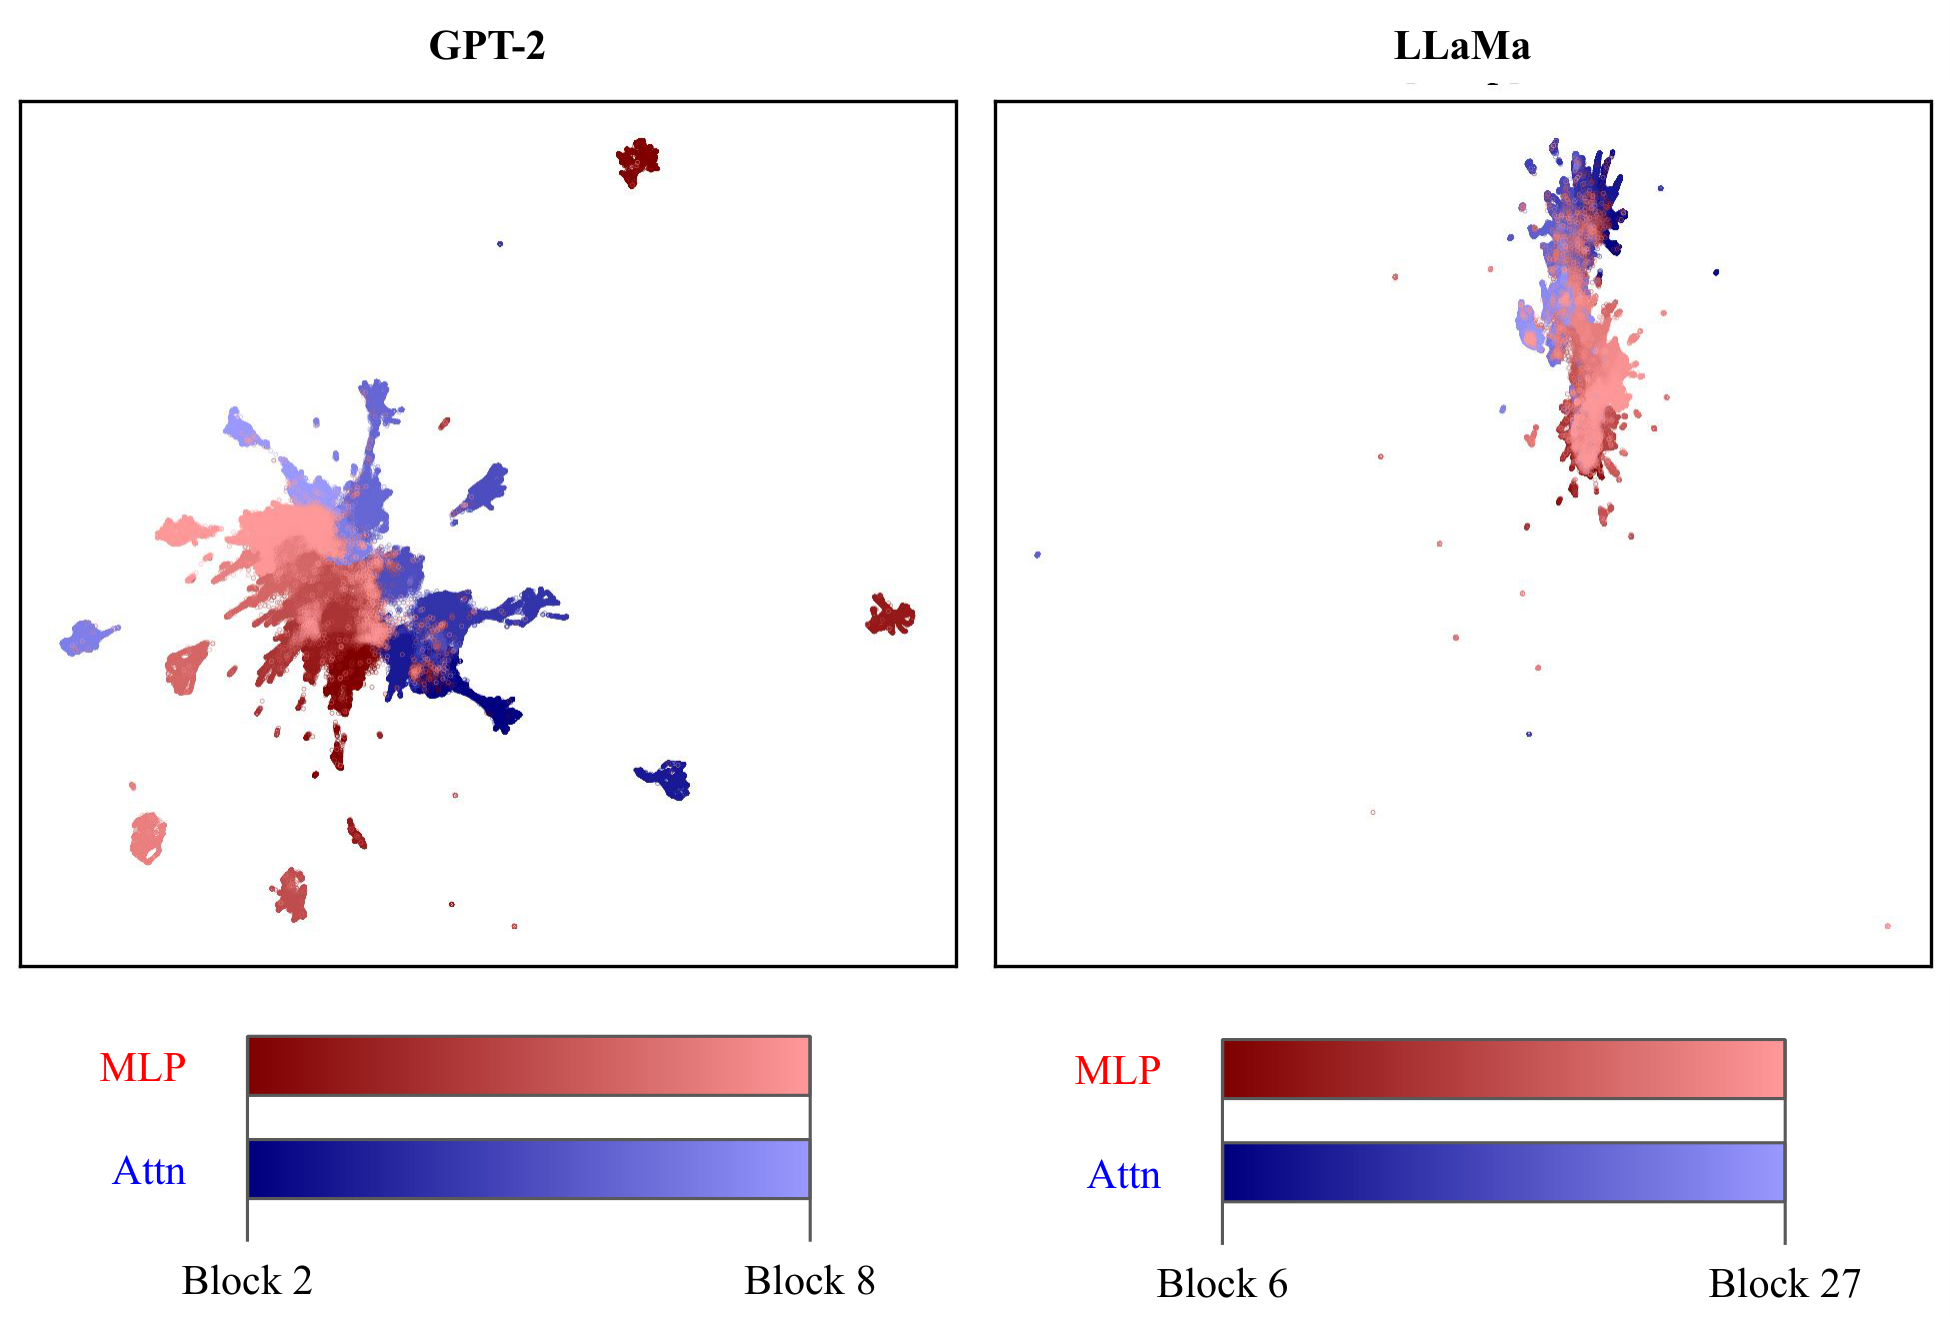
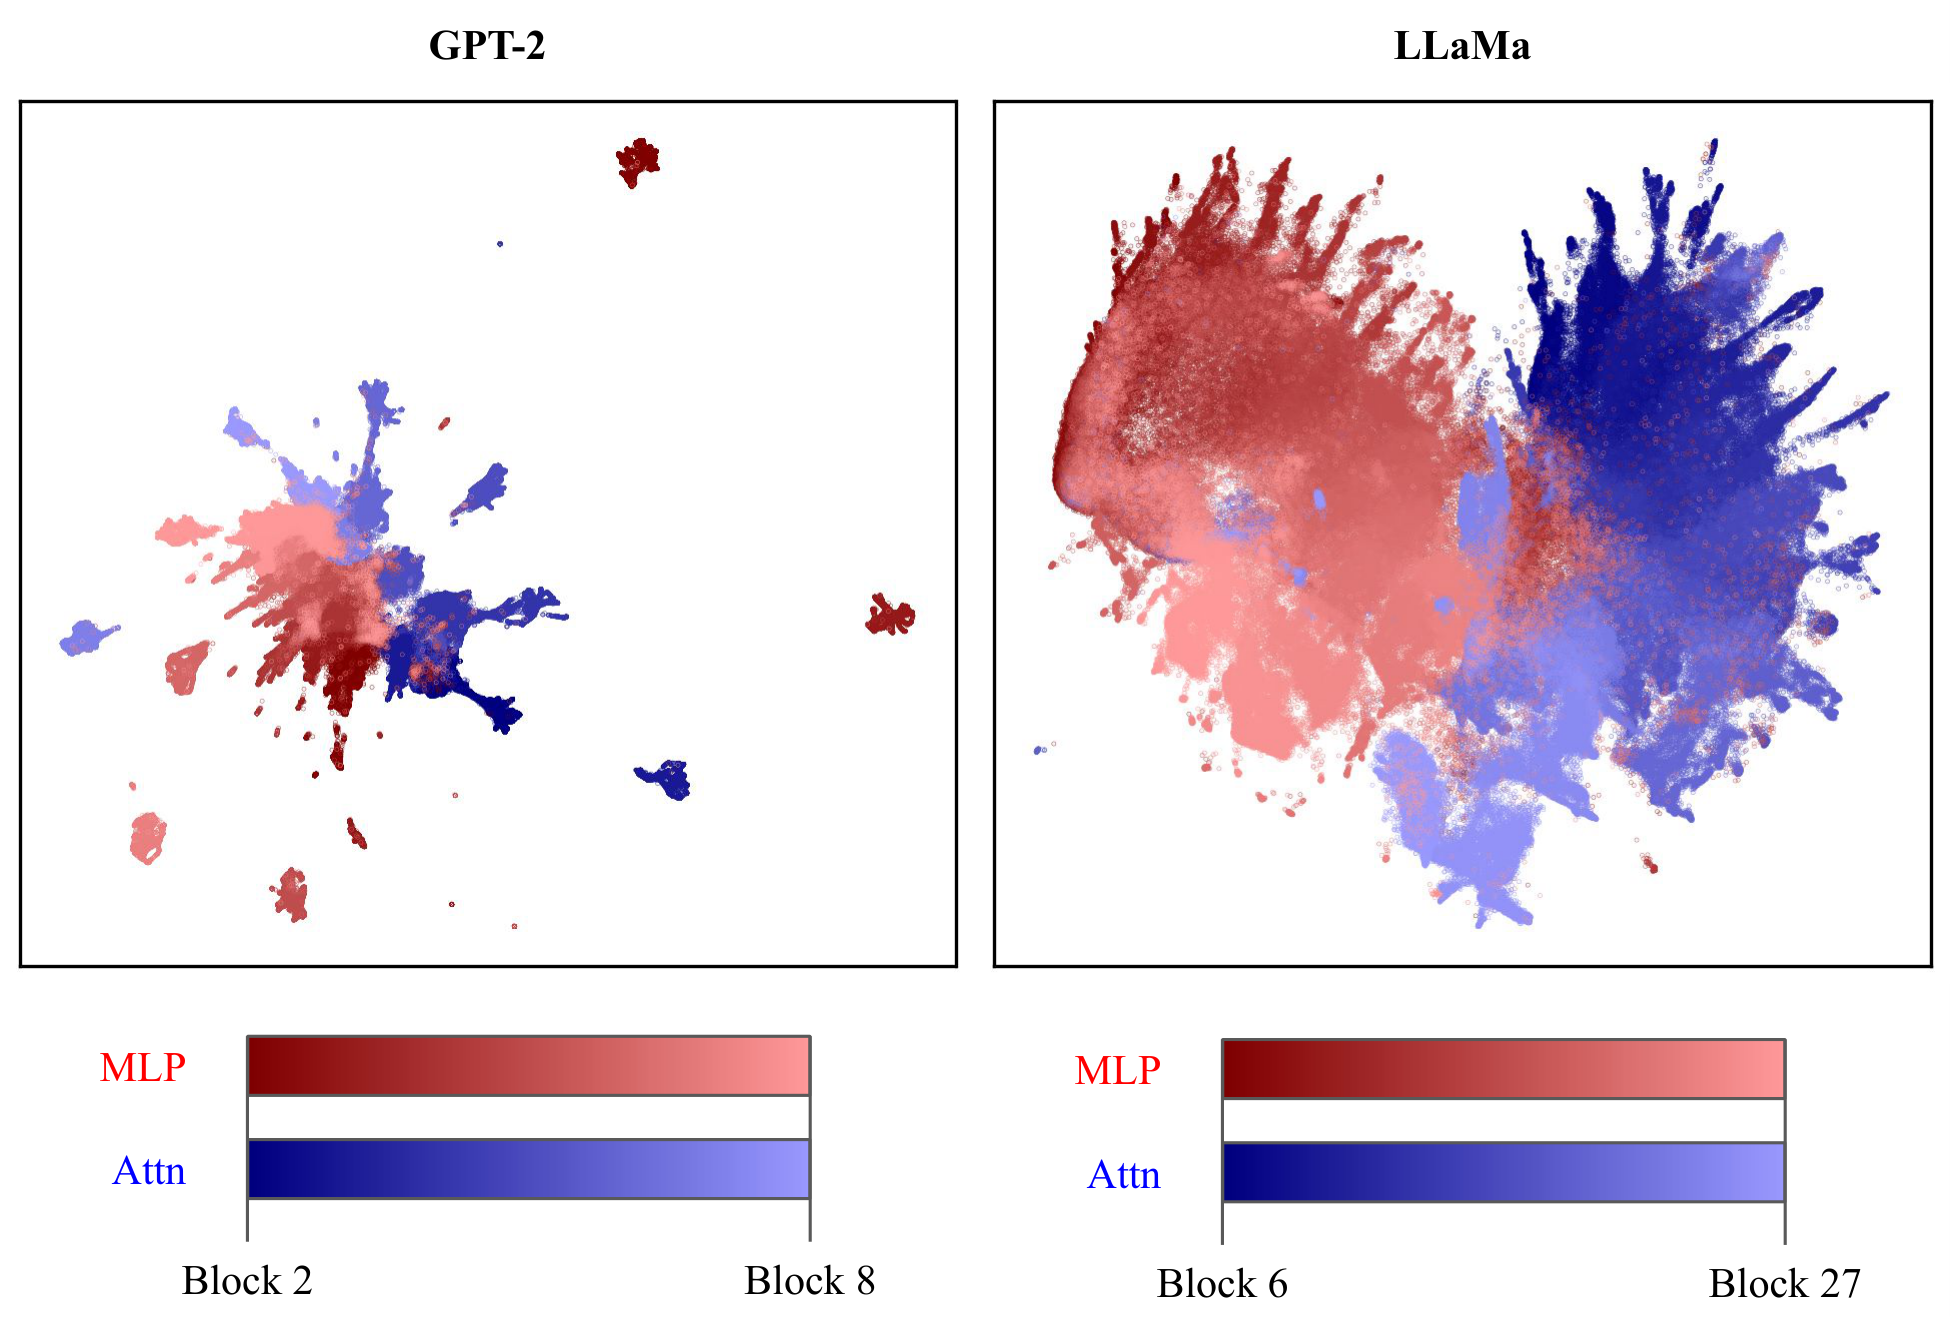
De-anonymized; added section to appendix to address reviewer feedback.

Changed region(s): [[0.5231, 0.0934, 0.9846, 0.716]]

diff --git a/_posts/2026-04-27-vis-llm-latent-geometry.md b/_posts/2026-04-27-vis-llm-latent-geometry.md
@@ -7,9 +7,19 @@ future: true
 htmlwidgets: true
 hidden: true
 
-# Anonymize when submitting
 authors:
-  - name: Anonymous
+  - name: Alex Ning
+    url: "https://alexn.ing"
+    affiliations:
+      name: Department of Computer Science, University of Virginia
+  - name: Vainateya Rangaraju
+    url: "https://vainateyar.com"
+    affiliations:
+      name: Department of Computer Science, University of Virginia
+  - name: Yen-Ling Kuo
+    url: "https://yenlingkuo.com"
+    affiliations:
+      name: Department of Computer Science, University of Virginia
 
 # must be the exact same name as your blogpost
 bibliography: 2026-04-27-vis-llm-latent-geometry.bib
@@ -43,6 +53,7 @@ toc:
   - name: Appendix
     subsections:
       - name: Additional Sequence Position Visualizations
+      - name: Stability of UMAP Visualizations
 
 ---
 
@@ -50,7 +61,7 @@ toc:
 
 Despite enormous advances made in the field of machine learning (ML) research, understanding a model's internal decision-making processes remains a difficult challenge. Model interpretability is central to areas such as alignment and explainable AI, and the field is burgeoning with an influx of work. However, many foundational questions are still unresolved. Against this backdrop, mechanistic interpretability has emerged as a field that aims to achieve a granular, causal understanding of neural networks, particularly large language models (LLMs), by reverse engineering their internal components. One promising avenue for understanding LLMs is analyzing their representations. Feature geometry, the structure and organization of representations within high-dimensional latent space, offers a way to study how abstract features are encoded and transformed across model layers. By examining geometric relationships between latent states, such as directions, clusters, and manifolds, researchers can gain insight into how LLMs generalize, reason, and abstract.
 
-In this work, we analyze the feature geometry of LLMs by capturing latent states across multiple components and projecting them into interpretable low-dimensional spaces using PCA and UMAP. This approach allows visualizations of how representations evolve through the Transformer model. Throughout this work, we aim to provide a strong background and exposition for better accessibility. To ensure clarity, a glossary of key technical terms used throughout this paper is provided in the [Glossary](#glossary) section. We make our code available at [https://anonymous.4open.science/r/Feature_Geometry_Visualization-505F](https://anonymous.4open.science/r/Feature_Geometry_Visualization-505F).
+In this work, we analyze the feature geometry of LLMs by capturing latent states across multiple components and projecting them into interpretable low-dimensional spaces using PCA and UMAP. This approach allows visualizations of how representations evolve through the Transformer model. Throughout this work, we aim to provide a strong background and exposition for better accessibility. To ensure clarity, a glossary of key technical terms used throughout this paper is provided in the [Glossary](#glossary) section. We make our code available at [https://github.com/Vainateya/Feature_Geometry_Visualization](https://github.com/Vainateya/Feature_Geometry_Visualization).
 
 ## Background
 
@@ -196,7 +207,7 @@ We notice a striking separation between pre-add latent states from attention com
 
 The figures above visualize pre-add contributions from both attention components and MLPs in intermediate blocks using samples from PG-19. The first figure utilizes PCA dimensionality reduction on the latent states. Although the PCA dimensionality reductions in all subplots were _fit_ on all latent states, the actual _transformation_ using the fitted PCA was done on the latent states only after they had all been averaged over the sample dimension to reduce random variability between samples for a clearer visualization. Subplot (a) shows the PCA visualizations of both GPT-2 and LLaMa. (b) shows the PCA visualizations of both GPT-2 and LLaMa when all latent states were converted to unit vectors before PCA dimensionality reduction. In both (a) and (b), there is a clear separation of regions occupied by latent states from attention components (blue) versus MLPs (red).
 
-The second figure above utilized 2D UMAP dimensionality reduction on the latent states. Unlike in the PCA case, there was no sample averaging of the latent states. Instead, due to the increased computational demands of UMAP (using all latent states is not viable), a random subset of 100k latent states was used to fit UMAP, while a _different_ random subset of 500k latent states was transformed and visualized. Similar to as seen in the PCA figure, we can see distinct regions occupied by latent states from attention components (blue) compared to those from MLPs (red). The Linear Representation Hypothesis specifies that features correspond to _directions_ in latent space. As a result, we use cosine distance as the metric for UMAP instead of Euclidean distance.
+The second figure above utilized 2D UMAP dimensionality reduction on the latent states. Unlike in the PCA case, there was no sample averaging of the latent states. Instead, due to the increased computational demands of UMAP (using all latent states is not viable), a random subset of 100k latent states was used to fit UMAP, while a _different_ random subset of 500k latent states was transformed and visualized. Similar to as seen in the PCA figure, we can see distinct regions occupied by latent states from attention components (blue) compared to those from MLPs (red). The Linear Representation Hypothesis specifies that features correspond to _directions_ in latent space. As a result, we use cosine distance as the metric for UMAP instead of Euclidean distance. We analyze the stability of our UMAP visualizations in the [Appendix](#stability-of-umap-visualizations).
 
 ### Effects of Sequence Position
 
@@ -315,3 +326,53 @@ _[Dimensionality Reduction](#dimensionality-reduction) section_
 <div class="caption">
     Visualization of post-add latent states from LLaMa intermediate blocks, averaged across samples and layers. 15 plots visualize all unique pairs of 6 PCA dimensions.
 </div>
+
+
+### Stability of UMAP Visualizations
+
+_This section discusses the stability of the UMAP visualizations presented in section [Attention vs. MLP Signature](#attention-vs-mlp-signature). It is a winding, exploratory rabbit-hole. We included it to discuss the concerns brought up by a reviewer during peer-review regarding the stability of UMAP._
+
+UMAP is stochastic and, at least in our case, required some largely heuristics-driven and trial-and-error based hyperparameter tuning.
+
+We chose to use two separately sampled random sets of data points for fit and then transformation to minimize the risk of overfitting affecting our results. The particular numbers of data points chosen - 100k for fit and 500k for transform - were simply a result of practical compute and time considerations.
+
+Since UMAP is non-deterministic, different runs will produce different outcomes. As such, in order to ensure that our results were not simply spurious, we can run the process multiple times to see whether the result will still contain the same patterns.
+
+We find that the UMAP visualizations of GPT-2 hidden states are very stable, consistently producing the same, elegant patterns. This is also largely true of the visualizations of LLaMa hidden states. The clear separation of attention and MLP hidden states are always present. However, we also find that the visualized LLaMa hidden states are sometimes susceptible to random and sparse outlier points that visually compact the vast majority of hidden states into a smaller area on the visualization.
+
+{% include figure.liquid path="assets/img/2026-04-27-vis-llm-latent-geometry/FIG_LLaMa_UMAP_Outliers.png" class="img-fluid" %}
+<div class="caption">
+    6 random UMAP visualizations of LLaMa hidden states. Outliers are circled in green. The top 2 contain outliers that moderately compact the vast majority of data points. The bottom-left visualization has its main cluster of data points severely crushed by distant outliers. The remaining 3 visualizations are not affected by outliers.
+</div>
+
+Since we used cosine similarity as the UMAP metric, we know that large activations are *not* the culprit. Instead, these outliers must simply point in a direction that is very different from the majority of points. Either that, or they are some sort of artifact of a suboptimally-configured UMAP.
+
+One of the simpler reasons that directional outliers may occur is in the case where there are hidden states that have a near-zero magnitude, since these can essentially point in a random, meaningless direction. However, we find that this is not the case. Out of all LLaMa hidden states we considered for visualization (after initial post-processing dimensionality reduction via PCA from 4096 to 512 dims), the minimum Euclidean length is 0.87 while the median is 5.73; this minimum length is far too great and eliminates near-zero length as a possible culprit of the directional outliers.
+
+We do not find that transforming the *same* data points that were used to fit the UMAP (in comparison with using separately sampled sets) has a noticeable effect on the occurrence of outliers.
+
+We proceed to attempt to provide some interpretation on the source of these outliers. Out of the 64 text samples that comprised the hidden states we used, we manually examined the first 15. We found outliers present in 2 out of these 15 samples (samples 12 and 14). Out of all of the 90,068 hidden states that comprised sample 12, we found that only 1 was an outlier: the hidden state output by the MLP of block 20 at sequence position 1596, which corresponds to the final token `'.'` in the following sequence of tokens that discusses what seems to be a delectable experience:
+
+```
+...
+
+'▁Mix', '▁well', '▁with', '▁a', '▁small', '▁glass',
+'▁of', '<0x0A>', 'br', 'andy', '.', '▁Let', '▁free',
+'ze', '▁and', '▁serve', '▁in', '▁small', '▁glass',
+'es', '.', '<0x0A>', '<0x0A>', '<0x0A>', '1', '2',
+'.--', 'Russ', 'ian', '▁P', 'anc', 'akes', '.'
+
+...
+```
+
+In sample 14, we find 137 outliers scattered relatively evenly throughout the passage. All are from the output of the attention of block 19. 134 correspond to the token `'▁|'`, while 3 correspond to the token `'--+'`. We note that there exist instances of these same tokens that are *not* outliers.
+
+We also measure the cosine similarity between the singular outlier in sample 12 and one of the `'▁|'` outliers from sample 14. We find a very low cosine similarity of ~0.08. In contrast, cosine similarity between `'▁|'` outliers in sample 14 is around 0.9. Thus, there is low similarity between the outliers of these two samples, despite the fact that, when reduced with UMAP, the points are essentially overlapping.
+
+We do not attempt to manually identify the remaining outliers in other samples, although we note they do exist. From the two samples we analyze that do contain outliers, we see that they correspond to tokens related to punctuation or formatting and that, given a single sample, they occur only in one layer throughout the entire model.
+
+All of the outliers analyzed above were from a single, *particular* UMAP fit. We do not know if another instance of the stochastic UMAP will produce different outliers.
+
+We do find that fitting on more data points increases the probability and intensity of outliers. For example, fitting on 100k data points produces many visualizations with no outliers, but fitting on 500k data points nearly always produces extreme outliers that compact the majority of data points into a small cluster. Notably, in both cases we transform and visualize 500k data points after fitting. We do not have a great explanation for this. Perhaps there are just a few data points in the 5.8 million total that, when sampled into the set used to fit UMAP, will result in the phenomenon of outliers being present. Thus, it is more likely that none of these data points are sampled when only 100k data points are used rather than 500k. However, if there are hundreds of these "outlier causing" data points, then it is very unlikely that even sampling 100k data points out of 5.8 million would miss all of them.
+
+As an alternative to discovering the source of our outliers, we tried to tune the UMAP fitting process to eliminate the phenomenon entirely. We spent a full day playing with various hyperparameters, however, we were not able to eliminate the issue entirely. Despite this, we reiterate that, even with the occasional presence of significant outliers, the primary pattern of interest - the distinction between attention and MLP hidden states - are still *always* evident in the main cluster of visualized data points. As a result, our primary conclusion is still stable across UMAP runs.